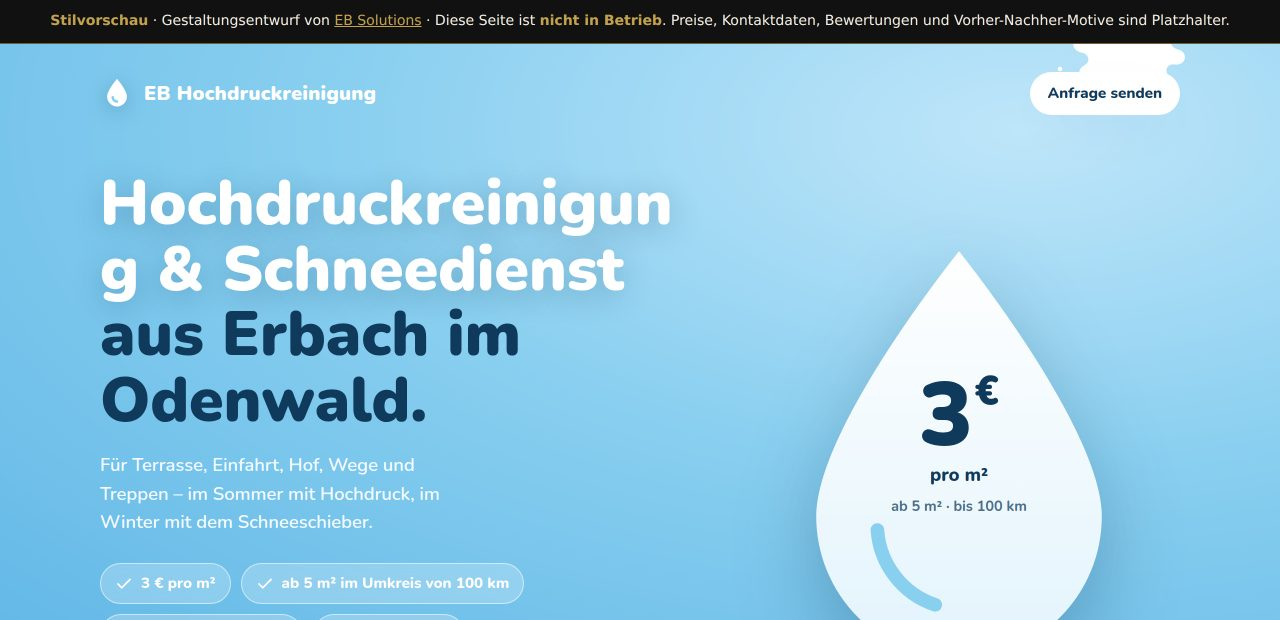
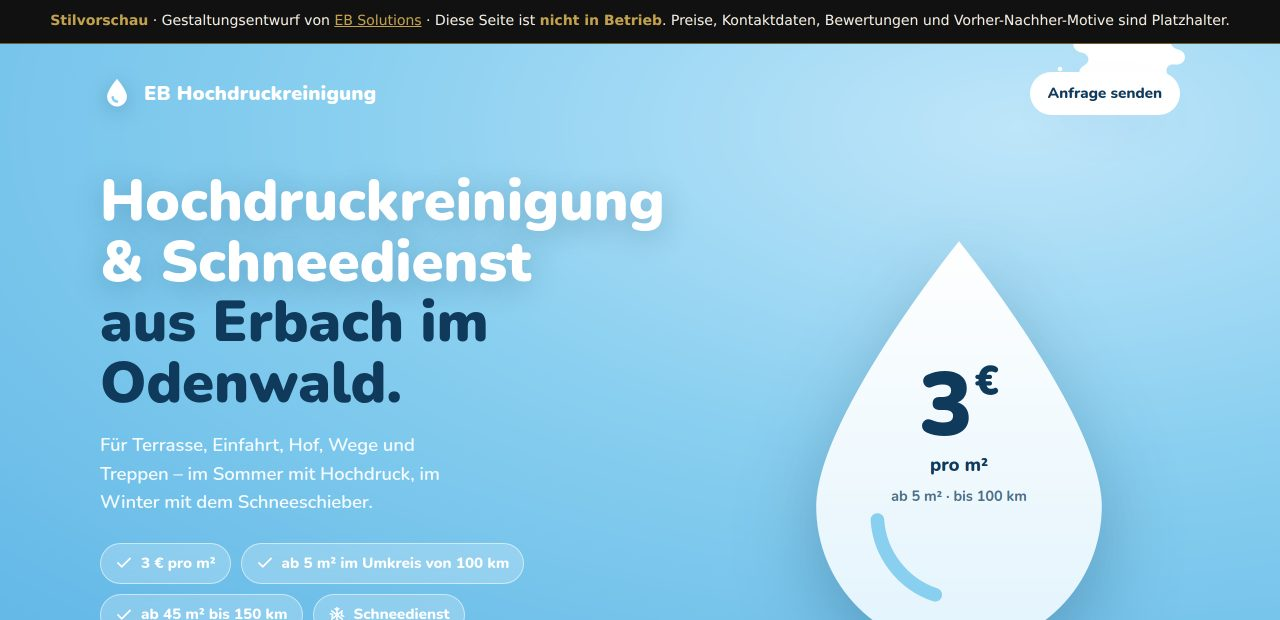
Stilvorschau Hochdruckreinigung auf den neueren Entwurf gehoben
Der Unterschied zwischen beiden Commits sind 31 Bytes, und sie beheben
genau das, was im alten Vorschaubild haesslich aussah: Die Ueberschrift
brach mitten im Wort um, "Hochdruckreinigun" und in der naechsten Zeile
"g & Schneedienst". Der neue Stand setzt hyphens auf manual, verbietet
den Wortumbruch, verkleinert die Schriftgroesse und haelt "&nbsp;" vor
"Schneedienst". Nachgemessen bei 1280 und 390 Pixel Breite: die
Ueberschrift laeuft nirgends ueber den Rand und bricht nur noch zwischen
Woertern.

Am Zustand des Entwurfs aendert das nichts - info@example.de,
"Hauptstrasse 12", die CSS-Beispielmotive im Vorher-Nachher-Bereich, der
Abschnitt mit Kundenstimmen und die fehlenden Rechtstexte sind
unveraendert vorhanden. Das Hinweisband bleibt deshalb wortgleich.

Derselbe Umbau wie vorher: Google Fonts raus, Nunito lokal, noindex,
Hinweisband. Gemessen: nur der eigene Host, keine Cookies, kein
sessionStorage, kein localStorage, keine fehlenden Dateien.

Claude-Session: https://claude.ai/code/session_01KzpP9yraydaziHZYpiBQ12

diff --git a/vorschau/hochdruckreinigung/index.html b/vorschau/hochdruckreinigung/index.html
@@ -68,9 +68,9 @@
     .topbar__cta { color: var(--blue-dark); background: var(--white); padding: 10px 18px; border-radius: 999px; font-weight: 800; text-decoration: none; font-size: .95rem; box-shadow: var(--shadow); }
 
     .hero__grid { display: grid; grid-template-columns: 1.15fr .85fr; gap: 40px; align-items: center; margin-top: 56px; }
-    .hero h1 { font-size: clamp(2.2rem, 5.4vw, 3.9rem); line-height: 1.05; font-weight: 900; text-shadow: 0 6px 30px rgba(15,58,92,.25); }
+    .hero h1 { font-size: clamp(2rem, 4.6vw, 3.6rem); line-height: 1.05; font-weight: 900; text-shadow: 0 6px 30px rgba(15,58,92,.25); }
     .hero__grid > * { min-width: 0; }
-    .hero h1 { overflow-wrap: break-word; hyphens: auto; }
+    .hero h1 { hyphens: manual; overflow-wrap: normal; word-break: normal; }
     .hero h1 span { display: block; color: var(--blue-dark); text-shadow: none; }
     .hero__lead { margin-top: 18px; font-size: 1.15rem; max-width: 34ch; color: #f4fbff; font-weight: 600; }
     .chips { display: flex; flex-wrap: wrap; gap: 10px; margin-top: 26px; }
@@ -245,7 +245,7 @@
     @media (max-width: 820px) {
       .hero { padding-bottom: 130px; }
       .hero__grid { grid-template-columns: 1fr; margin-top: 36px; gap: 20px; }
-      .hero h1 { font-size: clamp(1.6rem, 7.6vw, 3rem); }
+      .hero h1 { font-size: min(3rem, calc((100vw - 32px) / 11)); }
       .price-drop { width: 240px; order: -1; }
       .facts, .ba-grid, .reviews, .winter__box { grid-template-columns: 1fr; }
       .row { grid-template-columns: 1fr; gap: 0; }
@@ -316,7 +316,7 @@
 
       <div class="hero__grid">
         <div>
-          <h1>Hochdruckreinigung &amp; Schneedienst <span>aus Erbach im Odenwald.</span></h1>
+          <h1>Hochdruckreinigung &amp;&nbsp;Schneedienst <span>aus Erbach im Odenwald.</span></h1>
           <p class="hero__lead">Für Terrasse, Einfahrt, Hof, Wege und Treppen – im Sommer mit Hochdruck, im Winter mit dem Schneeschieber.</p>
           <div class="chips">
             <span class="chip"><svg viewBox="0 0 24 24" fill="none" stroke="currentColor" stroke-width="2.4" stroke-linecap="round" stroke-linejoin="round"><path d="M20 6 9 17l-5-5"/></svg>3 € pro m²</span>
